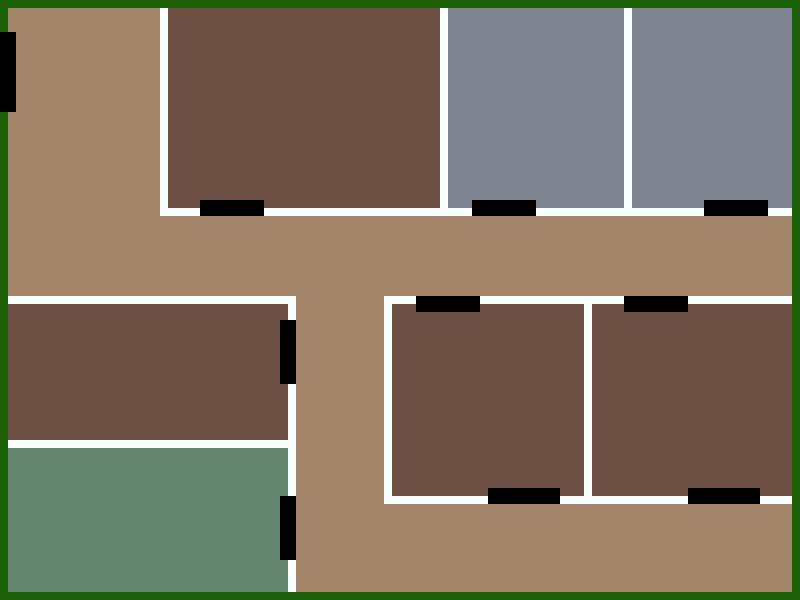
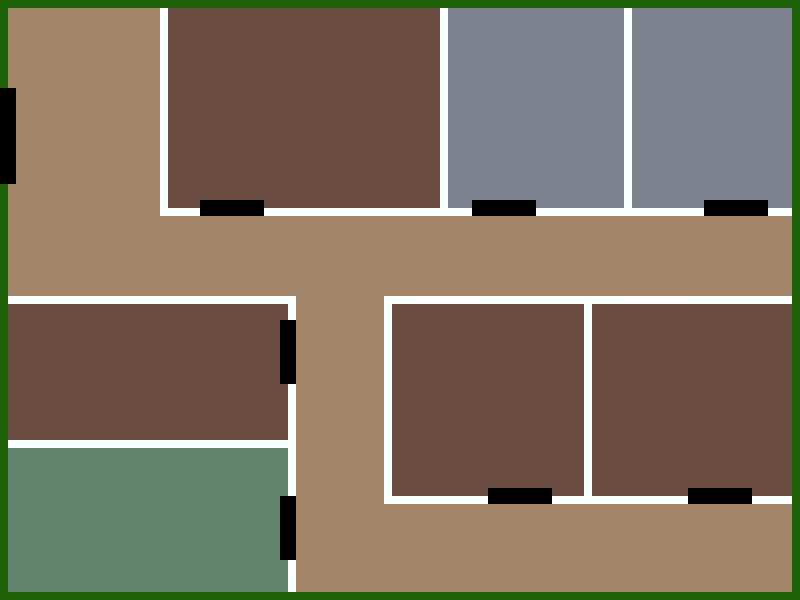
build doors

diff --git a/src/School.java b/src/School.java
@@ -57,6 +57,14 @@
  * moved the door collision into promptGrid
  */
 
+/**
+ * @author Aaron Zhu
+ * May 21st, 2022
+ * @version 2.0
+ * Time: 30 minutes
+ * build all the doors for deficiencies room in buildDeficienciesRoom()
+ */
+
 import javafx.scene.Group;
 import javafx.scene.Scene;
 import javafx.scene.image.ImageView;
@@ -127,23 +135,14 @@ public class School {
         fillCollisionGrid(792, 0, 800, 600);
 
         // door entrances
-        fillPromptGrid(200, 218, 263, 230, 1);
-
-        //fillCollisions(60, 28, 67, 28, 3);
-       // fillCollisions(89, 28, 96, 28, 3);
-
-
-      //  fillCollisions(38, 40, 38, 48, 3);
-       // fillCollisions(62, 28, 38, 70, 3);
-
-
-    //    fillCollisions(53, 36, 60, 36, 3);
-     //   fillCollisions(79, 36, 86, 36, 3);
-
-       // fillCollisions(26, 28, 33, 28, 3);
-      //  fillCollisions(26, 28, 33, 28, 3);
-
-
+        fillPromptGrid(200, 216, 264, 232, 1); // room 1
+        fillPromptGrid(472, 216, 536, 232, 2); // washroom 1
+        fillPromptGrid(704, 216, 768, 232, 3); // washroom 2
+        fillPromptGrid(296, 320, 312, 384, 4); // room 2
+        fillPromptGrid(296, 496, 312, 560, 5); // library
+        fillPromptGrid(488, 504, 552, 520, 6); // room 3
+        fillPromptGrid(688, 504, 752, 520, 7); // room 4
+        fillPromptGrid(0, 88, 24, 184, 8); // exit
 
         // create character
         Character character = new Character(stage, root, scene, 100, 300, 300, collisionGrid, promptGrid);

diff --git a/src/Character.java b/src/Character.java
@@ -297,7 +297,7 @@ public class Character {
         }
 
         // temporary - will move
-        if (maxDetect == 1 && !textBoxExists) {
+        if (maxDetect != 0 && !textBoxExists) {
             textBoxExists = true;
             ImageView textBox = new ImageView("Assets/textBox.png");
             textBox.setPreserveRatio(true);
@@ -310,7 +310,7 @@ public class Character {
 //            DeficiencyRoom deficiencyRoom = new DeficiencyRoom(stage);
 //            System.out.println(3);
 //            deficiencyRoom.deficiencyRoom();
-        } else if (maxDetect != 1 && textBoxExists) {
+        } else if (maxDetect == 0 && textBoxExists) {
             root.getChildren().remove(root.getChildren().size() - 1);
             textBoxExists = false;
         }
